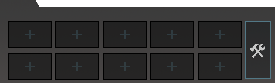
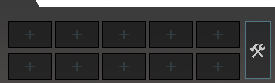
이건호 : UI리소스 일부 수정

diff --git a/GameApp/UI_Equip.cpp b/GameApp/UI_Equip.cpp
@@ -30,14 +30,14 @@ void UI_Equip::Start()
 {
 
 	BackGroundPos = { -215.0f, -315.0f, 0.0f };
-	BasicSlotPos = { -257.0f, -315.0f, -1.0f };
+	BasicSlotPos = { -257.0f, -299.0f, -1.0f };
 	SlotXPivot = { 41.0f, 0.0f, 0.0f };
-	SlotYPivot = { 0.0f, -27.0f, 0.0f };
+	SlotYPivot = { 0.0f, -33.0f, 0.0f };
 	SlotSize = { 36.f,23.f };
 
 	{
 		Renderer = CreateTransformComponent<GameEngineUIRenderer>(GetTransform(), (int)UIRenderOrder::BACKDROP);
-		Renderer->SetImage("Eqiup_BackGround.png", "PointSmp");
+		Renderer->SetImage("Equip_BackGround.png", "PointSmp");
 		Renderer->GetTransform()->SetLocalPosition(BackGroundPos);
 		Renderer->GetTransform()->SetLocalScaling(Renderer->GetCurrentTexture()->GetTextureSize());
 	}
@@ -49,32 +49,32 @@ void UI_Equip::Start()
 			Slot0Collision = CreateTransformComponent<GameEngineCollision>();
 			Slot0Collision->GetTransform()->SetLocalPosition(BasicSlotPos);
 			Slot0Collision->GetTransform()->SetLocalScaling(SlotSize);
-			Slot0Collision->SetCollisionInfo(static_cast<int>(eCollisionGroup::UI), CollisionType::AABBBox3D);
+			Slot0Collision->SetCollisionInfo(static_cast<int>(eCollisionGroup::UI), CollisionType::Rect);
 
 			Slot1Collision = CreateTransformComponent<GameEngineCollision>();
 			Slot1Collision->GetTransform()->SetLocalPosition(BasicSlotPos + SlotXPivot);
 			Slot1Collision->GetTransform()->SetLocalScaling(SlotSize);
-			Slot1Collision->SetCollisionInfo(static_cast<int>(eCollisionGroup::UI), CollisionType::AABBBox3D);
+			Slot1Collision->SetCollisionInfo(static_cast<int>(eCollisionGroup::UI), CollisionType::Rect);
 
 			Slot2Collision = CreateTransformComponent<GameEngineCollision>();
 			Slot2Collision->GetTransform()->SetLocalPosition(BasicSlotPos + (SlotXPivot * 2.0f));
 			Slot2Collision->GetTransform()->SetLocalScaling(SlotSize);
-			Slot2Collision->SetCollisionInfo(static_cast<int>(eCollisionGroup::UI), CollisionType::AABBBox3D);
+			Slot2Collision->SetCollisionInfo(static_cast<int>(eCollisionGroup::UI), CollisionType::Rect);
 
 			Slot3Collision = CreateTransformComponent<GameEngineCollision>();
 			Slot3Collision->GetTransform()->SetLocalPosition(BasicSlotPos + SlotYPivot);
 			Slot3Collision->GetTransform()->SetLocalScaling(SlotSize);
-			Slot3Collision->SetCollisionInfo(static_cast<int>(eCollisionGroup::UI), CollisionType::AABBBox3D);
+			Slot3Collision->SetCollisionInfo(static_cast<int>(eCollisionGroup::UI), CollisionType::Rect);
 
 			Slot4Collision = CreateTransformComponent<GameEngineCollision>();
 			Slot4Collision->GetTransform()->SetLocalPosition(BasicSlotPos + SlotYPivot + SlotXPivot);
 			Slot4Collision->GetTransform()->SetLocalScaling(SlotSize);
-			Slot4Collision->SetCollisionInfo(static_cast<int>(eCollisionGroup::UI), CollisionType::AABBBox3D);
+			Slot4Collision->SetCollisionInfo(static_cast<int>(eCollisionGroup::UI), CollisionType::Rect);
 
 			Slot5Collision = CreateTransformComponent<GameEngineCollision>();
 			Slot5Collision->GetTransform()->SetLocalPosition(BasicSlotPos + SlotYPivot + (SlotXPivot * 2.0f));
 			Slot5Collision->GetTransform()->SetLocalScaling(SlotSize);
-			Slot5Collision->SetCollisionInfo(static_cast<int>(eCollisionGroup::UI), CollisionType::AABBBox3D);
+			Slot5Collision->SetCollisionInfo(static_cast<int>(eCollisionGroup::UI), CollisionType::Rect);
 		}
 	}
 

diff --git a/GameApp/UI_Inventory.cpp b/GameApp/UI_Inventory.cpp
@@ -32,7 +32,7 @@ void UI_Inventory::Start()
 	BackGroundPos = { 248.0f, -315.0f, 0.0f };
 	BasicSlotPos = { 141.0f, -309.0f, -1.0f };
 	SlotXPivot = { 47.0f, 0.0f, 0.0f };
-	SlotYPivot = { 0.0f, -33.0f, 0.0f };
+	SlotYPivot = { 0.0f, -32.0f, 0.0f };
 	SlotSize = { 44.0f,27.0f };
 	
 	{
